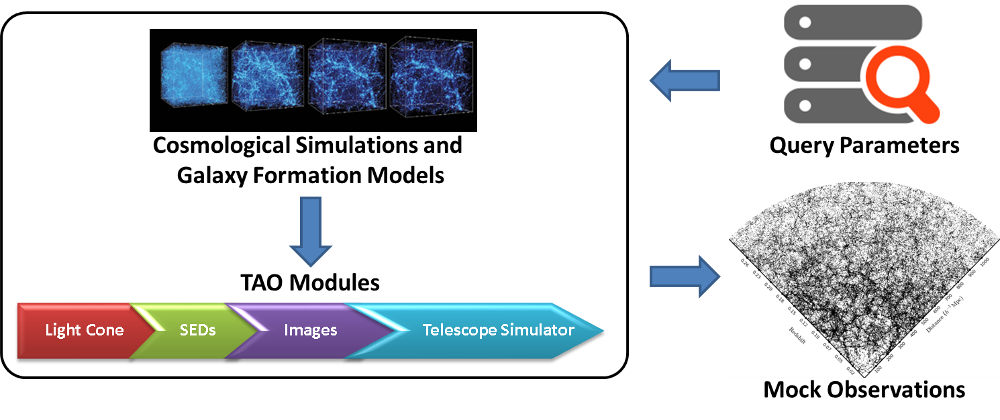
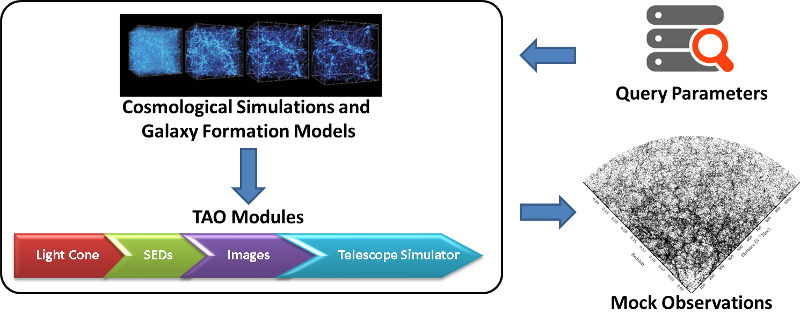
Home page updates

diff --git a/web/tao/static/css/tao_home.css b/web/tao/static/css/tao_home.css
@@ -90,7 +90,7 @@ a:active, a:hover {
 
 #banner { position: fixed; padding: 0; left: 0px; right: 0px; z-index: 1; }
 
-.container-fluid { padding: 0 60px; }
+.container-fluid { padding: 0 60px; height: 100%;}
 
 /* .container-fluid .navbar { margin: 0 -20px 20px -20px; } */
 .navbar-inverse .navbar-inner {
@@ -667,8 +667,7 @@ border-left:thick solid #d0d0d0;
 .wrapper {
             
             height: auto !important;            
-            min-height: 100%;
-            padding-bottom:130px;
+            min-height: 100%;            
             height: 100%
         }
 
@@ -899,9 +898,20 @@ ul.messagelist { position: fixed; top: 48px; left: 0; right: 0; }
 
 
 .container-full {
-         margin: 0 auto;
-         width: 100%;
+	     margin: 0 auto;
+	     width: 100%;
+         height: 100%;         
+         
      }
+
+.image-div
+{
+	height: 100%;	
+	vertical-align:middle;
+	
+	
+	
+}     
      
 .main-img{
     height:auto;

diff --git a/web/tao/templates/home.html b/web/tao/templates/home.html
@@ -26,7 +26,7 @@
         </p>
         </div>
         <div class="push"><!--//--></div>
-    <div align="center">
+    <div class="image-div" align="center" >
         <img  class="main-img" src="{% static 'images/TAO_illust.png'%}"/>
 	</div>
         
@@ -38,9 +38,9 @@
 {% block footertxt %}	
 	
 	
-
+<div align="center">
  <img src="{% static 'images/sponsers.jpg'%}"/>
-
+</div>
 	
 
         

diff --git a/web/tao/templates/_base_home.html b/web/tao/templates/_base_home.html
@@ -91,7 +91,7 @@
             overwrite this content in templates...
         {% endblock content %}
     </div>
-    <div class="push"><!--//--></div>
+    
   </div>
   </div>
   <div id="footer">
